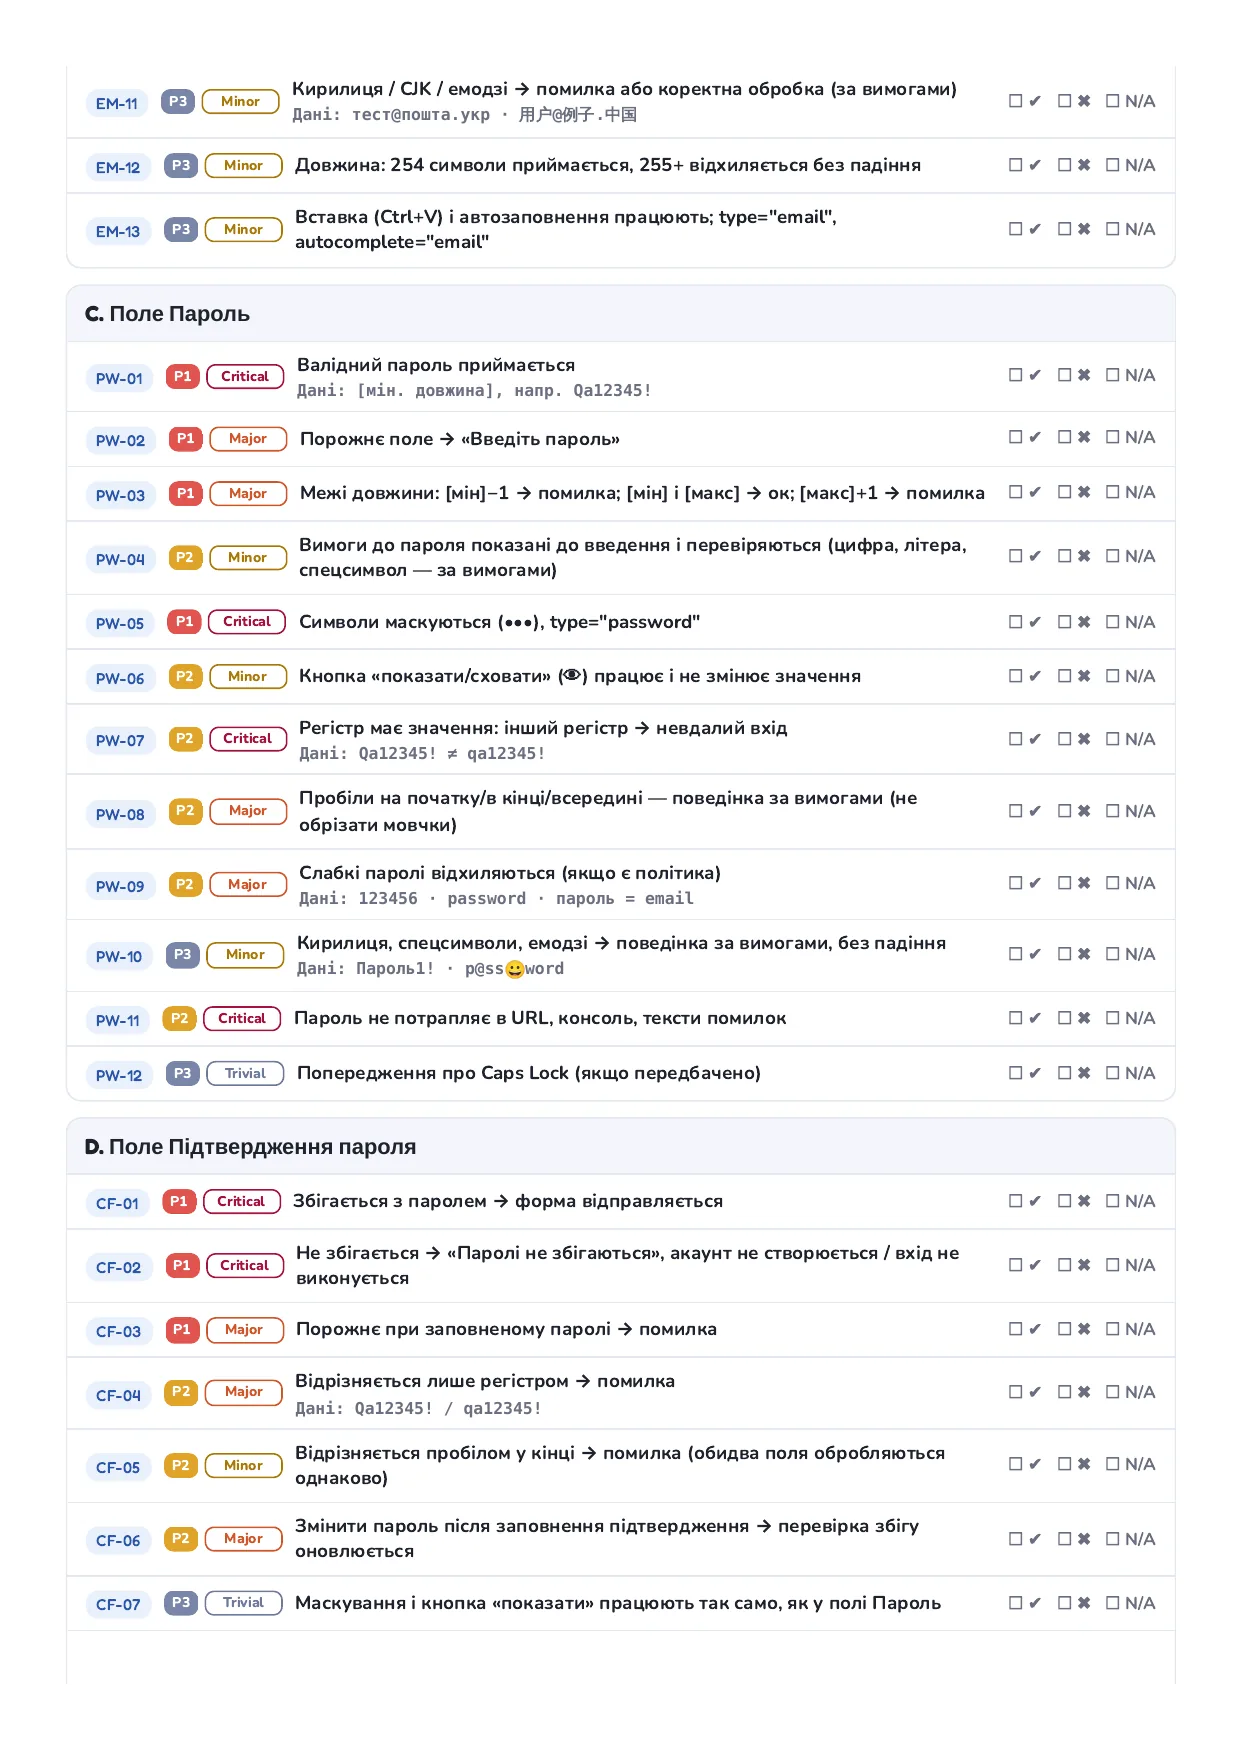
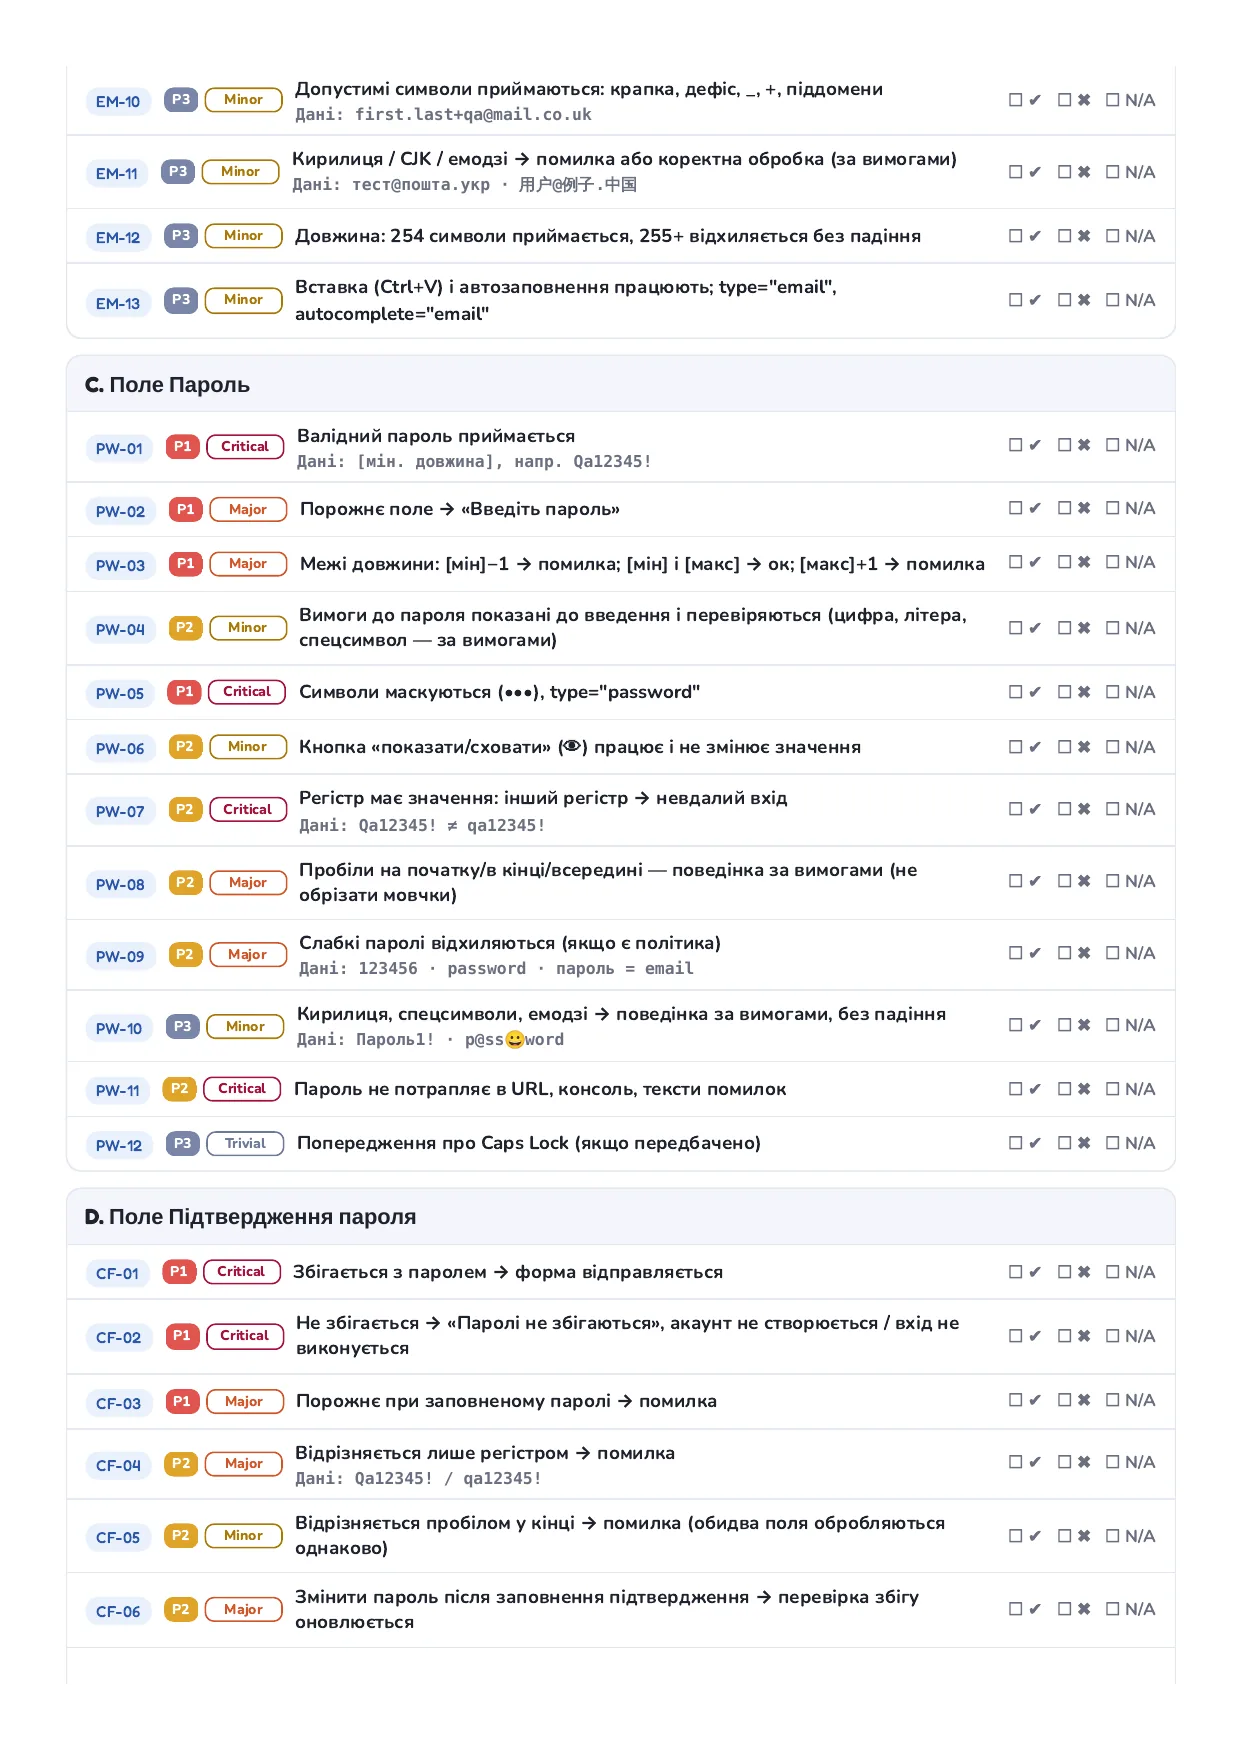
Checklist template: add Remember me, Logout, autofocus and lockout checks
New section J (Remember me and logout, 6 checks) plus UI-08 (autofocus on
the first field) and SUB-10 (lockout message and unlock after the wait),
for 77 checks in 10 sections. UI-01, UI-07, SUB-08 and CB-01 now mention
placeholders, tablets and an example lockout rule. The A4 screenshots on
the site and the section's caption are updated.

Claude-Session: https://claude.ai/code/session_01QNh4zQBp7bNNuV439ysXSd

diff --git a/docs/templates/login-form-checklist.html b/docs/templates/login-form-checklist.html
@@ -156,7 +156,7 @@ h1,h2,h3{font-family:'Fredoka',sans-serif;font-weight:700;margin:0}
 
   <div class="head">
     <h1>🔐 Чек-лист: форма входу</h1>
-    <p>Шаблон · Email · Пароль · Підтвердження пароля · «Забули пароль?» · «Немає акаунта?» · «Потрібна допомога?»</p>
+    <p>Шаблон · Email · Пароль · Підтвердження пароля · «Забули пароль?» · «Немає акаунта?» · «Потрібна допомога?» · «Запам'ятати мене» · Вихід</p>
     <div class="meta">
       <label>Продукт<input data-meta="product" placeholder="назва / URL"></label>
       <label>Збірка / версія<input data-meta="build" placeholder="напр. 1.10"></label>
@@ -219,13 +219,14 @@ h1,h2,h3{font-family:'Fredoka',sans-serif;font-weight:700;margin:0}
    Значення в [дужках] — підставте з вимог свого продукту. */
 const DATA=[
  {id:"A",title:"Вигляд і поведінка форми",items:[
-   {id:"UI-01",p:"P2",s:"Minor",t:"Усі поля мають підпис (label), а не лише placeholder; обов'язкові позначені *"},
+   {id:"UI-01",p:"P2",s:"Minor",t:"Усі поля мають підпис (label) і зрозумілий placeholder / підказку («Введіть ваш email»); обов'язкові позначені *"},
    {id:"UI-02",p:"P1",s:"Critical",t:"Форма відкривається без помилок у консолі; поля, кнопка й 3 посилання видимі"},
    {id:"UI-03",p:"P3",s:"Minor",t:"Tab іде по порядку: Email → Пароль → Підтвердження → кнопка → посилання; фокус видно"},
    {id:"UI-04",p:"P2",s:"Minor",t:"Enter у будь-якому полі відправляє форму"},
    {id:"UI-05",p:"P2",s:"Major",t:"Порожня форма + клік кнопки → помилки біля кожного обов'язкового поля, запит не йде"},
    {id:"UI-06",p:"P3",s:"Trivial",t:"Помилка зникає, щойно поле виправлено (або при наступній відправці — за вимогами)"},
-   {id:"UI-07",p:"P3",s:"Minor",t:"Мобільна ширина 360 px: нічого не обрізано, немає горизонтальної прокрутки, кнопка ≥ 44 px"},
+   {id:"UI-07",p:"P3",s:"Minor",t:"Смартфон (360 px) і планшет (768 px): нічого не обрізано, немає горизонтальної прокрутки, кнопка ≥ 44 px"},
+   {id:"UI-08",p:"P3",s:"Trivial",t:"При відкритті сторінки курсор стоїть у першому полі (autofocus); активне поле підсвічується"},
  ]},
  {id:"B",title:"Поле Email",items:[
    {id:"EM-01",p:"P1",s:"Critical",t:"Валідний email приймається",d:"user@example.com"},
@@ -274,8 +275,9 @@ const DATA=[
    {id:"SUB-05",p:"P2",s:"Major",t:"Немає мережі / сервер 500 → зрозуміле повідомлення, кнопка знову активна"},
    {id:"SUB-06",p:"P2",s:"Minor",t:"Після помилки email лишається у полі, паролі очищаються"},
    {id:"SUB-07",p:"P2",s:"Critical",t:"DevTools → Network: запит POST по HTTPS, пароля немає в URL"},
-   {id:"SUB-08",p:"P2",s:"Major",t:"Багато невдалих спроб → обмеження / капча / блокування (за вимогами)"},
+   {id:"SUB-08",p:"P2",s:"Major",t:"Багато невдалих спроб → обмеження / капча / блокування (за вимогами)",d:"напр. 5 невдалих спроб → блокування на 15 хв"},
    {id:"SUB-09",p:"P3",s:"Minor",t:"«Назад» у браузері після входу не повертає форму з даними"},
+   {id:"SUB-10",p:"P2",s:"Major",t:"Під час блокування видно, коли можна спробувати знову; після [N хв] вхід із правильним паролем знову працює"},
  ]},
  {id:"F",title:"Посилання «Забули пароль?»",items:[
    {id:"FP-01",p:"P1",s:"Major",t:"Посилання видиме, клікабельне і веде на сторінку відновлення"},
@@ -302,8 +304,16 @@ const DATA=[
    {id:"SEC-03",p:"P2",s:"Major",t:"Помилки не показують технічних деталей (стек, SQL, ім'я користувача БД)"},
    {id:"A11Y-01",p:"P3",s:"Minor",t:"Скрінрідер читає підписи і помилки (aria-describedby / aria-live)"},
    {id:"A11Y-02",p:"P3",s:"Minor",t:"Контраст тексту, помилок і посилань достатній"},
-   {id:"CB-01",p:"P3",s:"Major",t:"Chrome, Firefox, Safari, Edge; Android і iOS"},
+   {id:"CB-01",p:"P3",s:"Major",t:"Верстка не «пливе»: Chrome, Firefox, Safari, Edge; Android, iOS і планшети"},
    {id:"CB-02",p:"P3",s:"Minor",t:"Менеджер паролів пропонує зберегти / заповнити (autocomplete=\"current-password\" / \"new-password\")"},
+ ]},
+ {id:"J",title:"Сесія: «Запам'ятати мене» і вихід",items:[
+   {id:"REM-01",p:"P1",s:"Major",t:"«Запам'ятати мене» увімкнено → після закриття й повторного відкриття браузера користувач залишається в акаунті"},
+   {id:"REM-02",p:"P2",s:"Major",t:"«Запам'ятати мене» вимкнено → після закриття браузера сесія завершується"},
+   {id:"REM-03",p:"P3",s:"Minor",t:"Чекбокс вмикається кліком по тексту, Space з клавіатури; стан за замовчуванням — за вимогами"},
+   {id:"OUT-01",p:"P1",s:"Critical",t:"«Вийти» → сесію повністю завершено (кукі / токен видалено); «Назад» у браузері не показує кабінет"},
+   {id:"OUT-02",p:"P1",s:"Critical",t:"Після виходу пряме посилання на кабінет → перенаправлення на сторінку входу"},
+   {id:"OUT-03",p:"P3",s:"Minor",t:"Уже залогінений користувач відкриває сторінку входу → перенаправлення в кабінет (або за вимогами)"},
  ]},
 ];
 

diff --git a/src/main.jsx b/src/main.jsx
@@ -31,8 +31,8 @@ function SkillLinks({ projects: ids, background }) {
 }
 
 const checklists = [
-  { id: 'login-form', title: 'Login form testing', fields: 'Email · Password · Confirm password · Forgot password / No account / Need help links',
-    meta: '69 checks · 9 sections · P1–P3 priorities · test data', pages: 4 }
+  { id: 'login-form', title: 'Login form testing', fields: 'Email · Password · Confirm password · Forgot password / No account / Need help links · Remember me · Logout',
+    meta: '77 checks · 10 sections · priority & severity · test data', pages: 4 }
 ];
 
 const getView = () => (window.location.hash === '#recruiter' ? 'recruiter' : 'home');
